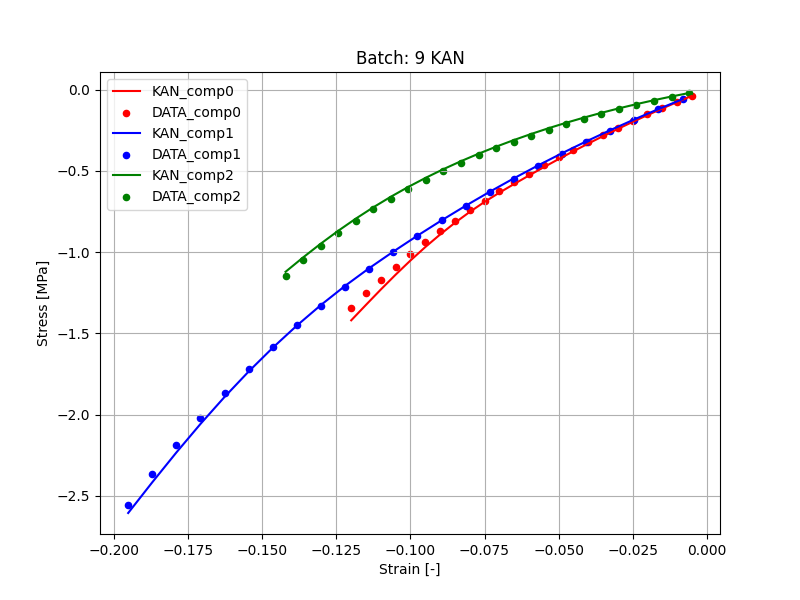
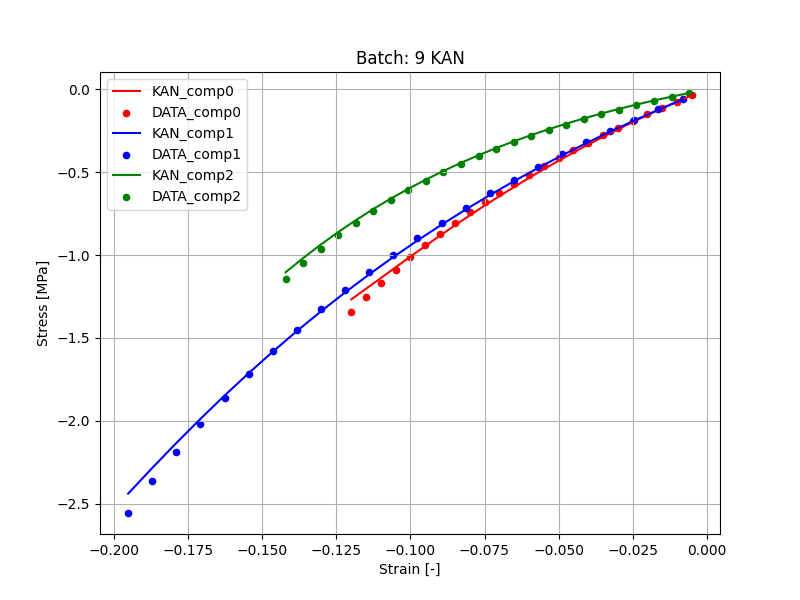
r

diff --git a/data_sets/KAN_ann.py b/data_sets/KAN_ann.py
@@ -25,7 +25,7 @@ from sklearn.model_selection import train_test_split
 """
 INPUT DATASET:
 """
-n_epochs = 500
+n_epochs = 1000
 learning_rate = 0.05
 number_of_steps = 25
 ADD_NOISE = False
@@ -91,10 +91,11 @@ class KANStressPredictor(nn.Module):
 
         self.ki = nn.ParameterList([ # order of the log, 2 params per mode: one per lambdas and another for J
             # nn.Parameter(torch.tensor(random.random())) for p in range(2 * self.order_stretches)
-            nn.Parameter(torch.tensor(float(p + 1) + random.random())) for p in range(self.order_stretches)
+            nn.Parameter(torch.tensor(float(p + 1) + random.random())) for p in range(self.order_stretches + 1)
         ])
         # The parameter multiplying the log(J) is initially set to 2.0
-        self.ki.append(nn.Parameter(torch.tensor(2.0)))
+        self.ki[-1] = nn.Parameter(torch.tensor(1.0))
+
 
     def CalculateW(self, strain):
         batches = strain.shape[0]
@@ -223,6 +224,10 @@ for epoch in range(n_epochs):
 
 print("\nTraining finished.\n")
 
+print("self.ki[0]: ", model.ki[0].data)
+print("self.ki[1]: ",model.ki[1].data)
+
+
 # print("\nmodel parameters:")
 # print("\n \tKi: ", model.ki.data)
 # for name, param in model.named_parameters():
@@ -231,7 +236,7 @@ print("\nTraining finished.\n")
 # null_prediction_ANN = model(torch.tensor([[[0.0, 0.0, 0.0]]]))
 # print("\nNull strain post training KAN prediction: ", 1.0e6*null_prediction_ANN)
 
-# torch.save(model.state_dict(), "KAN_model_weights.pth")
+torch.save(model.state_dict(), "KAN_model_weights.pth")
 
 
 # Define the GetColor method
